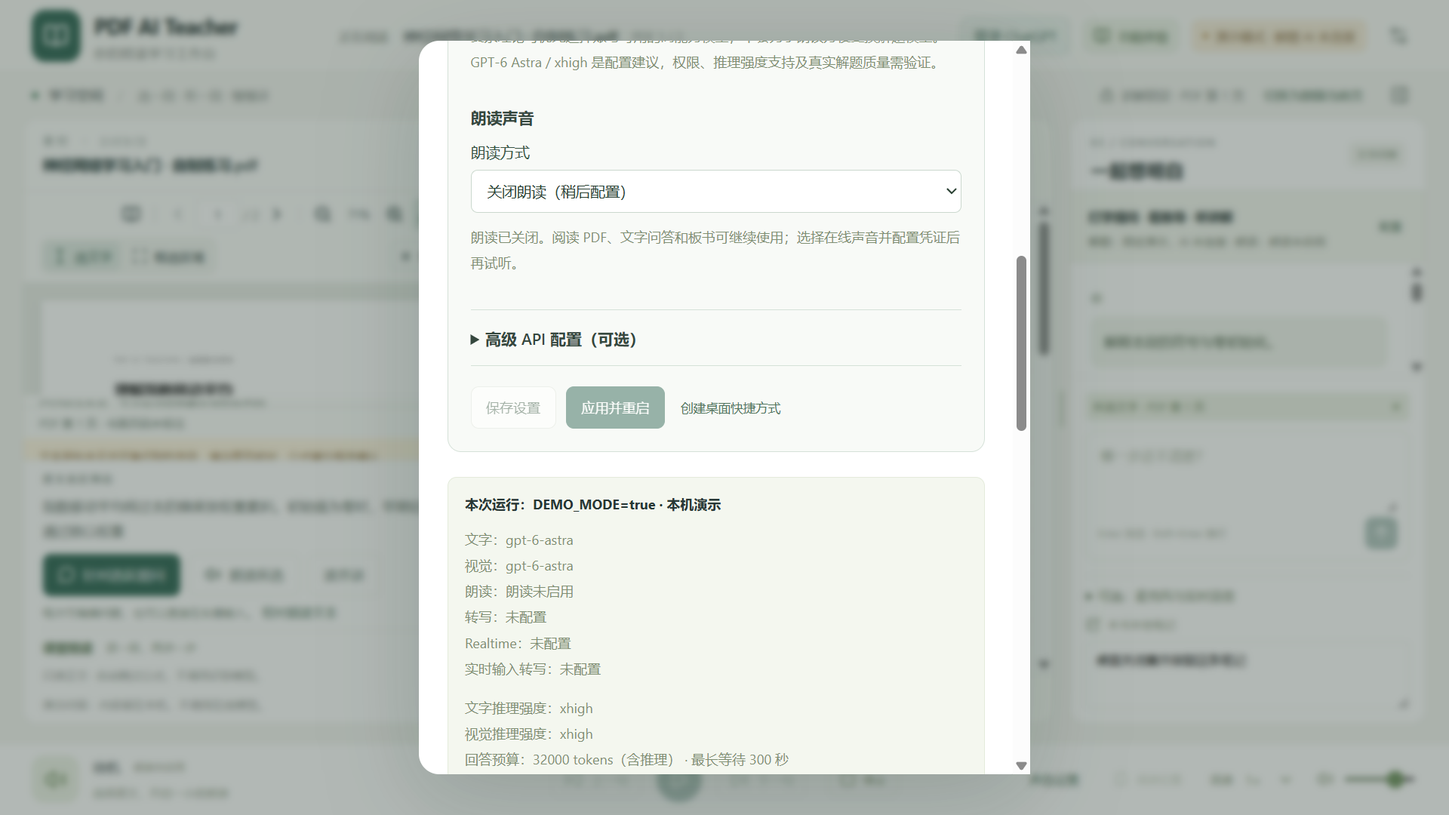
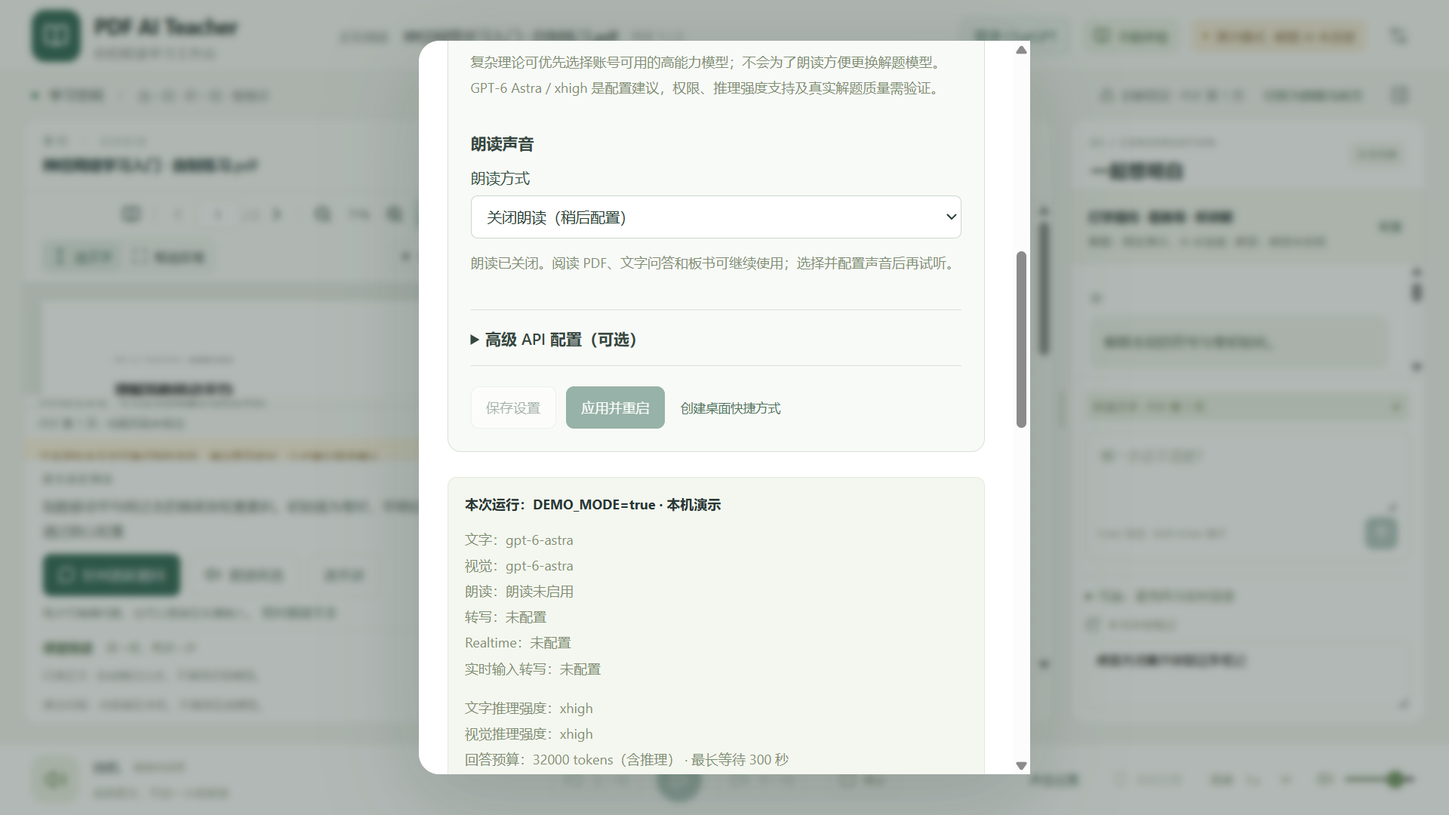
Restore Doubao voice controls and private key replacement

Changed region(s): [[0.3125, 0.0611, 0.6562, 0.3361], [0.3438, 0.7639, 0.4062, 0.7944]]

diff --git a/apps/web/src/features/settings/DesktopSettingsPanel.tsx b/apps/web/src/features/settings/DesktopSettingsPanel.tsx
@@ -1,14 +1,14 @@
 import { useEffect, useRef, useState } from 'react';
 import type { DesktopPreferences, DesktopSettings, DesktopTeacherBridge } from '../../../../../packages/shared/desktop';
 import { normalizeSpeechEngine } from '../../../../../packages/shared/localSpeech';
-import { DEFAULT_DOUBAO_TTS_INSTRUCTIONS, DEFAULT_DOUBAO_TTS_VOICE } from '../../../../../packages/shared/doubaoSpeech';
+import { DEFAULT_DOUBAO_TTS_INSTRUCTIONS, DEFAULT_DOUBAO_TTS_VOICE, DOUBAO_TTS_VOICES } from '../../../../../packages/shared/doubaoSpeech';
 import { COSY_TTS_VOICES, DEFAULT_COSY_TTS_VOICE, isCosyVoice, type CosyVoiceId } from '../../../../../packages/shared/cosySpeech';
 import { COSY_AUDITION_TEXT, type CosyAuditionState } from '../voice/CosyVoiceAudition';
 import './desktopSettings.css';
 
 function preferences(settings: DesktopSettings): DesktopPreferences {
   const { mode, chatModel, visionModel, reasoningEffort, ttsModel, ttsVoice, ttsInstructions } = settings;
-  return { mode, chatModel, visionModel, reasoningEffort, ttsModel, ttsVoice, ttsInstructions, ttsEngine: settings.ttsEngine === 'doubao' || settings.ttsEngine === 'openai' ? 'cosy' : normalizeSpeechEngine(settings.ttsEngine), cosyTtsVoice: isCosyVoice(settings.cosyTtsVoice) ? settings.cosyTtsVoice : DEFAULT_COSY_TTS_VOICE, doubaoTtsVoice: settings.doubaoTtsVoice ?? DEFAULT_DOUBAO_TTS_VOICE, doubaoTtsInstructions: settings.doubaoTtsInstructions ?? DEFAULT_DOUBAO_TTS_INSTRUCTIONS };
+  return { mode, chatModel, visionModel, reasoningEffort, ttsModel, ttsVoice, ttsInstructions, ttsEngine: settings.ttsEngine === 'openai' ? 'cosy' : normalizeSpeechEngine(settings.ttsEngine), cosyTtsVoice: isCosyVoice(settings.cosyTtsVoice) ? settings.cosyTtsVoice : DEFAULT_COSY_TTS_VOICE, doubaoTtsVoice: settings.doubaoTtsVoice ?? DEFAULT_DOUBAO_TTS_VOICE, doubaoTtsInstructions: settings.doubaoTtsInstructions ?? DEFAULT_DOUBAO_TTS_INSTRUCTIONS };
 }
 
 type Props = { bridge: DesktopTeacherBridge; onChange: (settings: DesktopSettings) => void; onBeforeAccountChange: () => void; auditionAvailable: boolean; auditionState: CosyAuditionState; onAudition: (voice: CosyVoiceId) => void; onStopAudition: () => void };
@@ -17,6 +17,8 @@ export default function DesktopSettingsPanel({ bridge, onChange, onBeforeAccount
   const [draft, setDraft] = useState<DesktopPreferences | null>(null);
   const [apiKey, setApiKey] = useState('');
   const [clearApiKey, setClearApiKey] = useState(false);
+  const [doubaoApiKey, setDoubaoApiKey] = useState('');
+  const [clearDoubaoApiKey, setClearDoubaoApiKey] = useState(false);
   const [pending, setPending] = useState('');
   const [error, setError] = useState('');
   const [notice, setNotice] = useState('');
@@ -72,16 +74,18 @@ export default function DesktopSettingsPanel({ bridge, onChange, onBeforeAccount
     if (draft.mode === 'chatgpt' && settings.models.length && [draft.chatModel, draft.visionModel].some(id => !settings.models.some(model => model.id === id))) throw new Error('请从此账号返回的模型列表中选择文字和看图解题模型。');
     if (draft.mode === 'api' && !apiKey.trim() && (!settings.hasApiKey || clearApiKey)) throw new Error('API 模式需要填写本机 API Key。也可以使用 ChatGPT 登录或本地演示。');
     const key = apiKey.trim();
-    setApiKey('');
-    const value = await bridge.saveSettings({ ...draft, ...(key ? { apiKey: key } : {}), ...(clearApiKey ? { clearApiKey: true } : {}) });
+    const doubaoKey = doubaoApiKey.trim();
+    setApiKey(''); setDoubaoApiKey('');
+    const value = await bridge.saveSettings({ ...draft, ...(key ? { apiKey: key } : {}), ...(clearApiKey ? { clearApiKey: true } : {}), ...(doubaoKey ? { doubaoApiKey: doubaoKey } : {}), ...(clearDoubaoApiKey ? { clearDoubaoApiKey: true } : {}) });
     setApiKey(''); setClearApiKey(false);
+    setDoubaoApiKey(''); setClearDoubaoApiKey(false);
     if (!mounted.current) return;
     accept(value);
     if (restart) { onBeforeAccountChange(); await bridge.restart(); }
     else setNotice('设置已保存在本机，点击「应用并重启」后生效。');
   };
   const update = <K extends keyof DesktopPreferences>(field: K, value: DesktopPreferences[K]) => setDraft(current => current ? { ...current, [field]: value } : current);
-  const dirty = !!draft && !!settings && (JSON.stringify(draft) !== JSON.stringify(preferences(settings)) || !!apiKey || clearApiKey);
+  const dirty = !!draft && !!settings && (JSON.stringify(draft) !== JSON.stringify(preferences(settings)) || !!apiKey || clearApiKey || !!doubaoApiKey || clearDoubaoApiKey);
   const account = settings?.auth;
   const busy = !!pending;
   const modelInput = (field: 'chatModel' | 'visionModel', label: string) => draft && <label>{label}{draft.mode === 'chatgpt' && settings?.models.length ? <select aria-label={label} value={draft[field]} onChange={event => update(field, event.target.value)}>{!settings.models.some(model => model.id === draft[field]) && <option value={draft[field]}>请选择账号可用模型</option>}{settings.models.map(model => <option key={model.id} value={model.id}>{model.name} · {model.id}</option>)}</select> : <input aria-label={label} value={draft[field]} onChange={event => update(field, event.target.value)} maxLength={120} placeholder="例如 gpt-6-astra"/>}</label>;
@@ -107,7 +111,7 @@ export default function DesktopSettingsPanel({ bridge, onChange, onBeforeAccount
         <p className="desktop-setting-note">复杂理论可优先选择账号可用的高能力模型；不会为了朗读方便更换解题模型。GPT-6 Astra / xhigh 是配置建议，权限、推理强度支持及真实解题质量需验证。{draft.mode === 'chatgpt' && !settings.models.length && ' 账号模型列表尚未取得。'}</p>
       </fieldset>
       <fieldset disabled={busy} className="desktop-model-fields desktop-speech-fields"><legend>朗读声音</legend>
-        <label>朗读方式<select aria-label="朗读方式" value={draft.ttsEngine ?? 'none'} onChange={event => { onStopAudition(); update('ttsEngine', event.target.value as DesktopPreferences['ttsEngine']); }}><option value="none">关闭朗读（稍后配置）</option><option value="cosy">CosyVoice 3（本机 GPU · 六种参考音色）</option></select></label>
+        <label>朗读方式<select aria-label="朗读方式" value={draft.ttsEngine ?? 'none'} onChange={event => { onStopAudition(); update('ttsEngine', event.target.value as DesktopPreferences['ttsEngine']); }}><option value="none">关闭朗读（稍后配置）</option><option value="cosy">CosyVoice 3（本机 GPU · 六种参考音色）</option><option value="doubao">豆包语音 2.0（在线额度按账号）</option></select></label>
         {draft.ttsEngine === 'none' && <p>朗读已关闭。阅读 PDF、文字问答和板书可继续使用；选择并配置声音后再试听。</p>}
         {draft.ttsEngine === 'cosy' && <div className="desktop-cosy-fields">
           <p>CosyVoice 3 在本机显卡生成 AI 合成声音，不需要 API Key，不上传朗读文字。这里是你选定六种声音的本地参考版，参考官方公开样音近似生成，不等同于官方云端原版。</p>
@@ -122,8 +126,21 @@ export default function DesktopSettingsPanel({ bridge, onChange, onBeforeAccount
           <p className="desktop-setting-note">安装好本机模型后，保存并「应用并重启」。首次朗读需要加载模型，后续复用；声音一边生成一边播放。暂停、续读和 0.25–3× 调速仍使用底部播放器。</p>
           <p className="desktop-setting-note">试听可使用尚未保存的音色；选择和保存不会自动发声。保存并应用后，PDF 朗读使用所选音色。关闭设置会停止试听，原文由你点击继续。运行状态见下方「本机语音状态」。</p>
         </div>}
+        {draft.ttsEngine === 'doubao' && <div className="desktop-doubao-fields">
+          <p>豆包语音 2.0 是在线 AI 合成声音。你主动朗读的文本会发送至火山引擎，解题继续使用上方选择的账号和专业模型。</p>
+          <fieldset disabled={!settings.encryptionAvailable} aria-label="豆包声音凭证">
+            <label>豆包语音 API Key<input type="password" aria-label="豆包语音 API Key" autoComplete="new-password" spellCheck={false} value={doubaoApiKey} onChange={event => { setDoubaoApiKey(event.target.value); setClearDoubaoApiKey(false); }} placeholder={settings.hasDoubaoApiKey ? '已保存；填新 Key 可替换，留空保留' : '只在本机填写，不要发送到聊天'} maxLength={500}/></label>
+            <p className="desktop-setting-note" role="status">{settings.hasDoubaoApiKey ? '已保存豆包 API Key；在上方粘贴新 Key 后保存即可替换，留空保持原 Key。' : '请填写火山引擎「豆包语音」服务的 API Key，并确认已开通语音合成 2.0。'} 凭证由本机桌面程序加密保管，提交后输入框清空，不会回显。</p>
+            {settings.hasDoubaoApiKey && <label className="desktop-check"><input type="checkbox" checked={clearDoubaoApiKey} onChange={event => { setClearDoubaoApiKey(event.target.checked); if (event.target.checked) setDoubaoApiKey(''); }}/>删除本机保存的豆包 API Key（保存后生效）</label>}
+          </fieldset>
+          <label>豆包中文音色<select aria-label="豆包中文音色" value={draft.doubaoTtsVoice ?? DEFAULT_DOUBAO_TTS_VOICE} onChange={event => update('doubaoTtsVoice', event.target.value)}>{DOUBAO_TTS_VOICES.map(voice => <option key={voice.id} value={voice.id}>{voice.name}</option>)}</select></label>
+          <label>豆包朗读语气<textarea aria-label="豆包朗读语气" value={draft.doubaoTtsInstructions ?? DEFAULT_DOUBAO_TTS_INSTRUCTIONS} onChange={event => update('doubaoTtsInstructions', event.target.value)} rows={3} maxLength={1000}/></label>
+          <p className="desktop-setting-note">保存设置 → 应用并重启 → 选一小段 PDF 正文 → 朗读所选。保存和切换选项不会请求语音；播放时仍可原位调速、暂停和续读。</p>
+          <p className="desktop-setting-note">剩余额度及有效期请在火山引擎控制台确认；超出额度可能计费。提前准备的下一句也可能使用额度，停止会取消尚未完成的准备。</p>
+          <div className="desktop-setting-actions"><button className="text-button" onClick={() => void run('link', () => bridge.openAccountPage('doubao-guide'))}>打开豆包官方试用指南</button><button className="text-button" onClick={() => void run('link', () => bridge.openAccountPage('doubao-console'))}>打开火山引擎控制台</button></div>
+        </div>}
       </fieldset>
-      <details className="desktop-advanced"><summary>高级 API 配置（可选）</summary><p>仅独立 API 解题需要此配置。使用 ChatGPT 账号解题或本机语音朗读，都不需要在这里填写 Key；专业解题模型保持上方选择。</p><fieldset disabled={busy || !settings.encryptionAvailable}>
+      <details className="desktop-advanced"><summary>高级 API 配置（可选）</summary><p>这里仅用于独立 API 解题。豆包朗读请填写上方的「豆包语音 API Key」；使用 ChatGPT 账号解题或本机语音朗读无需在这里填写 Key。</p><fieldset disabled={busy || !settings.encryptionAvailable}>
         <label>OpenAI API Key<input type="password" aria-label="OpenAI API Key" autoComplete="new-password" spellCheck={false} value={apiKey} onChange={event => { setApiKey(event.target.value); setClearApiKey(false); }} placeholder={settings.hasApiKey ? '已保存；留空保持原 Key' : '只在本机填写，不要发送到聊天'} maxLength={512}/></label>
         <p className="desktop-setting-note">{settings.hasApiKey ? '本机已保存 API Key；不会回显。' : '尚未保存 API Key。'} 保存后输入框清空，凭证由桌面程序加密保管。</p>
         {settings.hasApiKey && <label className="desktop-check"><input type="checkbox" checked={clearApiKey} onChange={event => { setClearApiKey(event.target.checked); if (event.target.checked) setApiKey(''); }}/>删除本机保存的 API Key（保存后生效）</label>}

diff --git a/apps/web/src/features/experience/FeatureGuide.tsx b/apps/web/src/features/experience/FeatureGuide.tsx
@@ -14,7 +14,7 @@ export default function FeatureGuide({config,speechEngine,canRead,hasDocument,ha
     <p className="feature-intro">{demo?'当前解题 AI 未连接：PDF 与所选声音独立使用；提问与板书是固定演示。':'先走一遍朗读和续读，再试模型讲解。已配置能力仍需实际连接验证。'}</p>
     <div className="feature-cards">
       <section><MessageCircle size={19}/><div><h3>打字问理论，再听这次讲解</h3><p>选中文字或框选公式，输入你真正想问的问题。解题模型生成答案、推导和讲解稿；回答下方点「听这次讲解」，语音只负责朗读。无需开启麦克风。</p><button className="primary-button" disabled={!hasTarget||!config||config.mode==='unconfigured'} onClick={onQuestion}>去输入我的问题</button>{!hasTarget&&<small>先选中教材内容；也可以从下方练习开始。</small>}</div></section>
-      <section><Volume2 size={19}/><div><h3>听一段 → 暂停 → 从原句继续</h3><p>{hasDocument?'使用你当前打开的 PDF，选区保持真实。':'打开本项目自制练习 PDF，不需要准备教材。'}每一步都会告诉你该点哪里，最低可选 0.25×。</p><button className="primary-button" disabled={!readingAvailable} onClick={onPractice}>{hasDocument?'带我试读与续读':'用练习走一遍'}</button><small>{engine==='cosy'?'CosyVoice 3 在本机生成朗读，不上传文字，无 API 费用。':engine==='doubao'?'豆包朗读会发送所选文本给火山引擎，免费试用余额需在官方控制台确认。':engine==='openai'?'OpenAI 朗读会发送所选文本并按 API 用量计费。':'朗读未启用，请先在声音设置启用本机声音。'}</small></div></section>
+      <section><Volume2 size={19}/><div><h3>听一段 → 暂停 → 从原句继续</h3><p>{hasDocument?'使用你当前打开的 PDF，选区保持真实。':'打开本项目自制练习 PDF，不需要准备教材。'}每一步都会告诉你该点哪里，最低可选 0.25×。</p><button className="primary-button" disabled={!readingAvailable} onClick={onPractice}>{hasDocument?'带我试读与续读':'用练习走一遍'}</button><small>{engine==='cosy'?'CosyVoice 3 在本机生成朗读，不上传文字，无 API 费用。':engine==='doubao'?'豆包朗读会发送所选文本给火山引擎，免费试用余额需在官方控制台确认。':engine==='openai'?'OpenAI 朗读会发送所选文本并按 API 用量计费。':'朗读未启用，请先在声音设置选择并配置朗读声音。'}</small></div></section>
       <section><BookOpen size={19}/><div><h3>看板书一小步一小步出现</h3><p>{demo?'固定 EMA 教案演示：先出当前公式，再播放讲解，每步等待继续。内容不会随问题改变。':'围绕所选原文生成教案，先展示当前步骤再讲解。问答使用所选账号或 API 额度；声音按所选服务的额度使用。'}</p><button className="secondary-button" disabled={!hasText||!readingAvailable||!config||config.mode==='unconfigured'} onClick={onBoard}>{demo?'试分步板书（固定样例）':'讲解当前选段'}</button>{!hasText&&<small>先在 PDF 中选一段文字，再来试。</small>}</div></section>
     </div>
     <details className="optional-voice guide-microphone"><summary>可选：试麦克风打断</summary><p>麦克风只在本机检测声音。开启后点「朗读所选」，再开口；声音暂停后可手动继续。此演练不转写、不回答问题。</p><button className="secondary-button" disabled={!hasTarget||!hasText||!config||config.mode==='unconfigured'} onClick={onMicrophone}>打开麦克风试打断</button>{!hasText&&<p>先选择可朗读的文字；图片区域不能直接朗读。点击后才申请麦克风。</p>}</details>

diff --git a/apps/web/src/App.tsx b/apps/web/src/App.tsx
@@ -390,7 +390,7 @@ export default function App() {
   const startLesson=async(mode=lessonMode)=>{
     if(!readingTarget?.sourceText.trim()||!config){setError('请先选择原文。');return;}
     if(!canPlaySpeech(config)){setError(speechUnavailableMessage(config));return;}
-    if(mode!=='read'&&config.mode==='unconfigured'){setError('解题模型尚未配置。可启用本机声音后选择「只朗读」。');return;}
+    if(mode!=='read'&&config.mode==='unconfigured'){setError('解题模型尚未配置。可配置朗读声音后选择「只朗读」。');return;}
     if(mode==='read'&&!splitSourceSentences(readingTarget.sourceText,'prose').length){cancel();setError('已跳过公式和难读内容，这个选区没有可朗读的正文。');return;}
     setError('');setLocked(structuredClone(readingTarget));audio.current?.setRate(rate);audio.current?.setVolume(volume);
     try{await classroom.current?.start(readingTarget,mode,lessonUnit);}catch(error){setError((error as Error).message);}

diff --git a/tests/e2e/desktop-settings.spec.ts b/tests/e2e/desktop-settings.spec.ts
@@ -83,7 +83,8 @@ test('专业解题 API 凭证独立保存且不回显、不写入网页存储，
   await setup(page, true); await page.getByRole('button', { name: 'ChatGPT 账号设置', exact: true }).click();
   await page.getByRole('combobox', { name: '朗读方式' }).selectOption('cosy');
   await page.locator('.desktop-advanced summary').click();
-  await expect(page.locator('.desktop-advanced')).toContainText('仅独立 API 解题需要此配置');
+  await expect(page.locator('.desktop-advanced')).toContainText('这里仅用于独立 API 解题');
+  await expect(page.locator('.desktop-advanced')).toContainText('豆包朗读请填写上方的「豆包语音 API Key」');
   const key = page.getByRole('textbox', { name: 'OpenAI API Key' });
   await expect(key).toHaveAttribute('type', 'password');
   await key.fill('mock-key-only-not-a-secret'); await page.getByRole('combobox', { name: 'CosyVoice 中文音色' }).selectOption('local_longfei_v3');

diff --git a/tests/e2e/retired-speech-ui.spec.ts b/tests/e2e/retired-speech-ui.spec.ts
@@ -39,7 +39,7 @@ test('桌面声音加入 CosyVoice 3，仍不显示已移除的声音或设备',
   });
   await page.goto('/');await page.getByRole('button',{name:'声音设置',exact:true}).click();
   const engine=page.getByRole('combobox',{name:'朗读方式',exact:true});await expect(engine).toHaveValue('none');
-  expect(await engine.locator('option').evaluateAll(options=>options.map(option=>(option as HTMLOptionElement).value))).toEqual(['none','cosy']);
+  expect(await engine.locator('option').evaluateAll(options=>options.map(option=>(option as HTMLOptionElement).value))).toEqual(['none','cosy','doubao']);
   await expect(page.getByRole('dialog')).not.toContainText(/Qwen|Kokoro|系统基本语音|CUDA/u);
   await expect(page.getByRole('combobox',{name:'本地中文音色',exact:true})).toHaveCount(0);
   await expect(page.getByRole('combobox',{name:'Qwen3 运算设备',exact:true})).toHaveCount(0);

diff --git a/docs/verification.md b/docs/verification.md
@@ -1,5 +1,15 @@
 # M0/M1/M2/M3 验收记录
 
+## 2026-10-04：豆包入口恢复与本机新 Key 配置
+
+- 修改前完整读取项目约定与需求；根仓库起始 HEAD 3278ec6，工作区干净。Node 24.19.0、npm 11.17.0、Git 2.50.1.windows.1。后端使用独立 worktree，最小改动 cherry-pick 为 8b809fb。只操作本项目，不改 Conda/CUDA、代理或训练进程。
+- 静态/单元：`npm run typecheck`、`npm run lint`、`npm test -- --reporter=dot` 通过，38 文件 / 952 项测试。覆盖豆包选择保留、独立 Key 替换、专业偏好保留与两引擎配置。新桌面验证脚本 lint 初次发现 localStorage/sessionStorage 全局声明缺失，改为显式 window 属性后 lint 通过。
+- 浏览器：`npx playwright test tests/e2e/doubao-settings.spec.ts tests/e2e/desktop-settings.spec.ts tests/e2e/retired-speech-ui.spec.ts tests/e2e/cosy-voices.spec.ts tests/e2e/cloud-speech-ui.spec.ts tests/e2e/cloud-rate-position.spec.ts tests/e2e/cloud-wait-ui.spec.ts` 初次 32/33 通过。唯一失败为旧高级 API 文案断言；更新成两类 Key 的正确指引后，`npx playwright test tests/e2e/desktop-settings.spec.ts` 4/4 通过。共 33 个相关用例最终通过，非全量 e2e。云音频为模拟 WAV，不能视为豆包真实服务通过。
+- `npm run desktop:package` 实际通过（包含 typecheck、Vite build、桌面 build、Windows 打包）。Vite 提示已有 bundle 超 500KB，开发测试提示 HMR 配置弃用；未阻断构建，不为消除提示扩大本次修复范围。
+- `node scripts/verify-desktop-doubao-settings.mjs`：真实打包 EXE、隔离 profile、两条固定假 Key；新增/替换后清空、Windows 加密文件不含假 Key 明文、公共设置与浏览器存储不回显；关闭重开保留豆包/音色/语气；切回本机六音色保留 Key；显式删除生效。0 次 TTS 请求、0 个页面错误。证据：[结果 JSON](doubao-settings-verification.json)、[豆包配置窗口](screenshots/doubao-restored-desktop-720.png)、[应用按钮窗口](screenshots/doubao-restored-actions-720.png)。两张 1280×720 实际页面截图已查看，输入、音色、语气和保存/应用按钮可滚动到达。
+- `node scripts/verify-desktop.mjs --packaged` 通过：PDF 真实选区、演示问答/KaTeX、关闭恢复笔记、单窗口、回环访问保护和桌面加密验证；[结果](desktop-smoke.json)。Computer Use 原生工具初始化失败，改用项目 Playwright/Electron 实际交互，不以终端成功代替 UI 检查。
+- 未读取用户真实 Key、未请求真实豆包服务、未真人试听。本轮不能确认新 Key 权限/余额、实际延迟或音质。自动审批对外发授权的首次拒绝及用户随后明确同意已记录于 decisions；最终恢复以主动朗读为触发条件，无启动/保存自动朗读。
+
 ## 2026-10-03：科研TTS资料与测试输入准备
 
 - 实际打开ACL/AAAI会录、作者仓库、模型卡、推理代码与硬件基准；核验结论见 [research-tts.md](research-tts.md)。作者成绩均标明设备/条件，没有写成5080实测或本产品通过。

diff --git a/docs/progress.md b/docs/progress.md
@@ -1,6 +1,16 @@
 # 进度
 
-## 2026-10-04：六个用户指定声音改为本机 GPU 参考版（当前）
+## 2026-10-04：恢复豆包语音入口与新 Key 替换（当前）
+
+上一轮把“六个本机音色”的范围扩大到了整个语音引擎列表，误将豆包入口一并移除。本轮恢复「豆包语音 2.0」，与关闭、本机 CosyVoice 六音色并存。已存豆包选择不再被迁移为 Cosy；当前本机/关闭偏好不会自动切换。恢复独立的豆包 Key 输入、替换/删除、三种音色、朗读语气及官方控制台入口，专业解题账号和模型保持原配置。
+
+用户已明确授权恢复豆包，并允许主动朗读时将所选 PDF 文字发送至火山引擎。本轮没有读取用户真实 Key、发起真实云语音或消耗额度；保存和切换选项不自动合成。假 Key 的新增、替换、加密存储、关闭重开恢复和显式删除均在隔离桌面配置中实际验证，未覆盖用户配置。
+
+typecheck、lint、952 项 unit、33 项相关浏览器用例最终通过，桌面构建打包与真实窗口 smoke 通过。初次浏览器有一项旧文案断言失败，更新为两类 Key 的正确指引后，所在文件 4 项复测通过。实际查看了 1280×720 豆包设置和保存按钮截图。测试证据见 [验收记录](verification.md) 和 [桌面配置结果](doubao-settings-verification.json)。
+
+启动：双击原 PDF AI Teacher 图标。最少操作：声音设置 → 朗读方式「豆包语音 2.0」→ 粘贴新 Key（即使显示已保存也可替换）→ 应用并重启 → 选一小段正文点朗读所选。真实 Key 连通性、账户额度与本轮真实音频质量待用户试读，不标为已通过。
+
+## 2026-10-04：六个用户指定声音改为本机 GPU 参考版（前一轮）
 
 按用户最新授权，采用 longanyang、longanhuan_v3、longfei_v3、longxiaochun_v3、longxiaoxia_v3、longanyun_v3 的官方公开试听作为本机声学参考。六份完整参考已校验、转换并安装；0.5B 模型在 RTX5080 上真实生成同一段169字正文，未请求云 TTS 或使用 API 额度。它们是近似参考版，不是云端预置声音被下载成模型，不保证云端原版品质。
 

diff --git a/docs/decisions.md b/docs/decisions.md
@@ -1,5 +1,13 @@
 # 设计取舍与接口核验
 
+## 2026-10-04：豆包恢复为独立可选语音引擎
+
+- 用户限定六个声音指 CosyVoice 本机音色；不再把这个要求解释为删除其他服务入口。桌面允许 none/cosy/doubao，已存豆包不会强制改为本机，当前本机或关闭也不擅自改为豆包。OpenAI 朗读入口和已淘汰的 Qwen/Kokoro/系统声音未恢复。
+- API Key 沿用桌面安全加密与独立字段。新值替换、空值保留、勾选删除才清除；提交成功或失败均清空输入，不回传明文、不写浏览器存储。账号、文字/看图模型与本机参考音色由原偏好保留。没有读取用户现存凭证明文来验证。
+- 自动审批曾以“未明确授权所选 PDF 内容向火山引擎出站”拒绝恢复 UI 补丁，补丁当时未执行。收到用户“同意恢复，主动朗读时发送”的明确回答后继续。保存/重启只配置服务，不发起 TTS；主动朗读及其下一句预取才会使用语音额度。当前任务不自动调用真实语音 API。
+- 后端官方 provider 与加密存储原本仍在，复用原实现，不更换协议、音色 ID、语音模型或解题模型。本轮核对[官方 API Key 使用说明](https://docs.volcengine.com/docs/DoubaoVoice/APIKeyUsage?lang=zh)与[新版控制台快速入门](https://docs.volcengine.com/docs/DoubaoVoice/QuickStartNewConsole?lang=zh)，语音服务开通和 Key 可用性仍需按用户账户确认。
+- 保存配置可伴随已登录解题账号的模型列表刷新，故不宣称“保存完全无网络”；严格确认的是不会请求合成、自动试听或上传 PDF。UI 保留外发、额度及新 Key 替换说明。
+
 ## 2026-10-04：用户指定云音色的本地声学参考实验
 
 - 用户得知云端参数需要云服务后，明确要求本机显卡生成这六种声音。对应使用 local_long* ID，UI 明示“本地参考版”，不把云端参数冒充本地原生音色，也不调用云合成。仅保留用户指定六个声音与关闭选项；已存账号、解题模型和云凭证不删除。

diff --git a/docs/cosyvoice-setup.md b/docs/cosyvoice-setup.md
@@ -18,7 +18,7 @@
 |龙小夏 · 本地参考|`longxiaoxia_v3`|`local_longxiaoxia_v3`|
 |龙安昀 · 本地参考|`longanyun_v3`|`local_longanyun_v3`|
 
-旧示例/AISHELL 音色已移除。声音设置只保留关闭与本机 CosyVoice；原解题账号、专业模型及已存凭证保留。旧本机音色迁移为龙安洋本地参考，关闭朗读的偏好仍保持关闭。
+旧示例/AISHELL 音色已移除。声音设置提供关闭、本机 CosyVoice、豆包语音 2.0；豆包使用独立 API Key，主动朗读时才发送正文至火山引擎。原解题账号、专业模型及已存凭证保留。旧本机音色迁移为龙安洋本地参考，关闭朗读及已存豆包的偏好均保留。六个本机参考音色的限制只针对 CosyVoice 音色列表。
 
 默认跳过本机检测到的公式，不自动调用 GPT 识别。纯扫描页、乱码提取不保证可朗读，仍可主动校对。试听与读书共享一个音频输出，会保留原文续读位置；关设置或停止试听即可停播，不取消后台文字问答。
 
